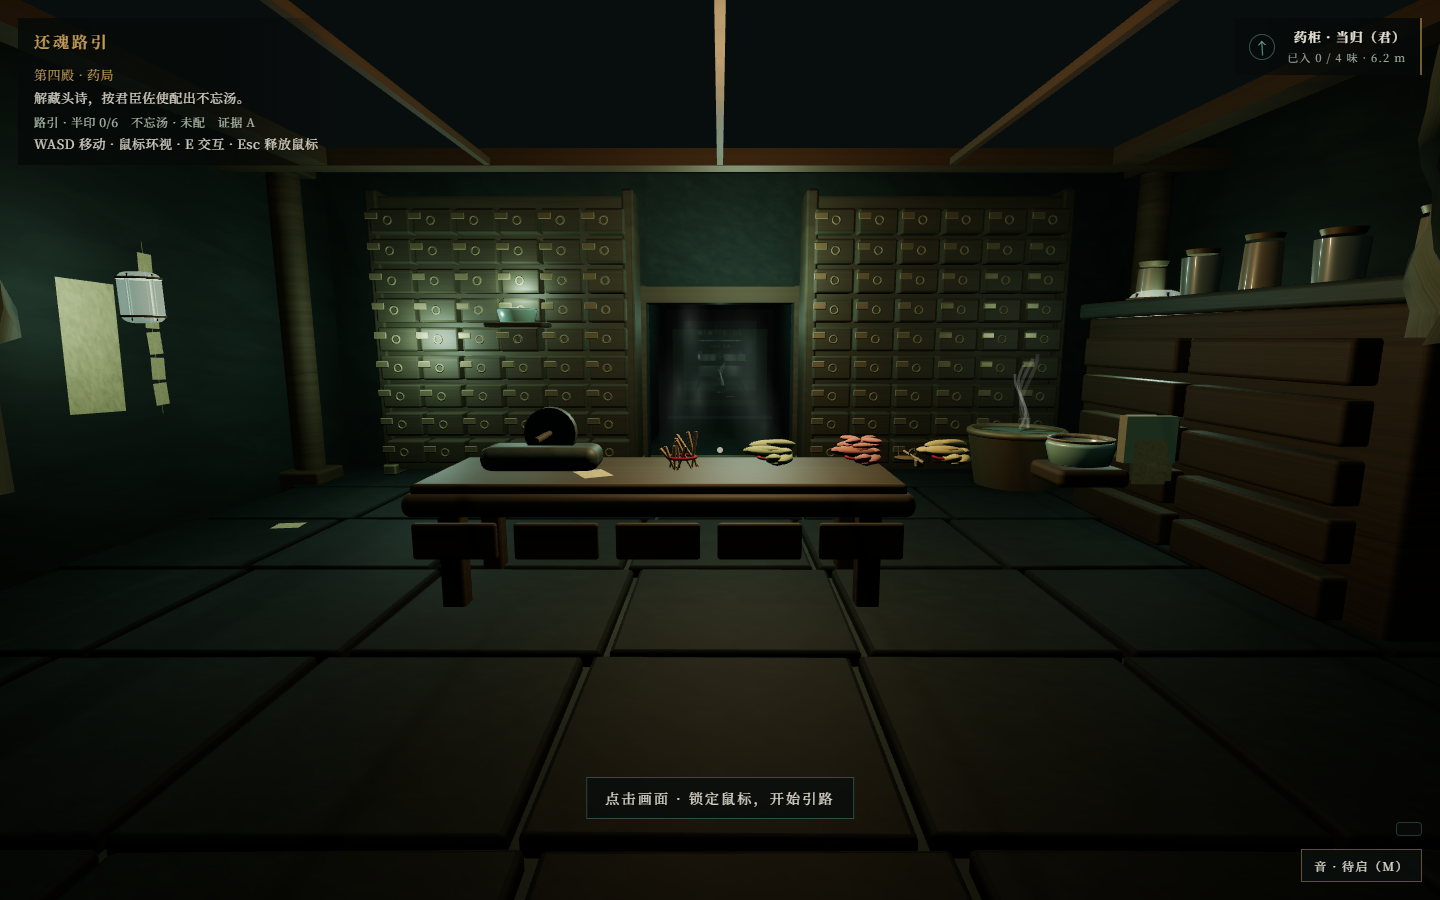
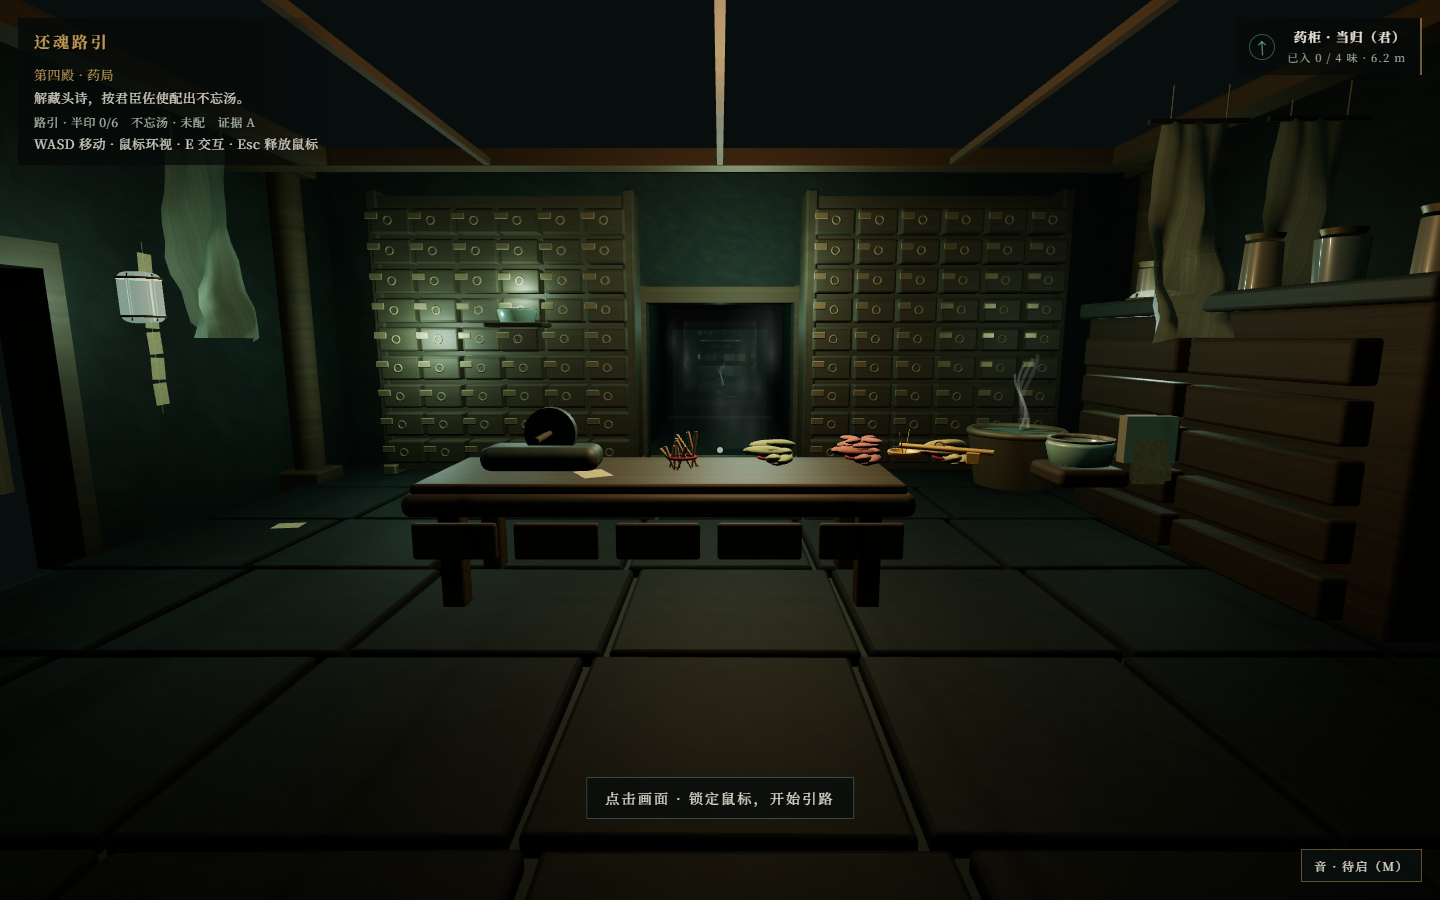
fix: 清除五殿悬浮藻井并补四殿左雾门

diff --git a/game/src/scene.ts b/game/src/scene.ts
@@ -477,7 +477,8 @@ function addLilyField(parent: THREE.Object3D): void {
     const z = onBank
       ? -47.0 - Math.random() * 28
       : (Math.random() < 0.5 ? -48.4 - Math.random() * 3.2 : -72.8 - Math.random() * 3.4)
-    const ground = onBank ? 0.27 : 0.07
+    // 河岸近侧岩石顶面约 0.275m，花茎须插在土里而不是悬在岩石上方。
+    const ground = onBank ? -0.2 : 0.035
     const stemHeight = (0.36 + Math.random() * 0.4) * clump
     const bloomScale = (0.75 + Math.random() * 0.55) * clump
     const yaw = Math.random() * Math.PI * 2
@@ -745,13 +746,24 @@ export class EscapeWorld {
     if (pavers.instanceColor) pavers.instanceColor.needsUpdate = true
     pavers.receiveShadow = true
     group.add(pavers)
-    box(group, [0.35, 5.2, 16], [-7, 2.6, center], DARK_STONE)
+    if (act === 'medicine') {
+      // 左墙开 2.2m 门洞，保留上下过梁；门后由药局补雾幕与门框。
+      box(group, [0.35, 5.2, 5.7], [-7, 2.6, center - 5.15], DARK_STONE)
+      box(group, [0.35, 5.2, 5.7], [-7, 2.6, center + 5.15], DARK_STONE)
+      box(group, [0.35, 1.9, 4.6], [-7, 4.25, center], DARK_STONE)
+    } else box(group, [0.35, 5.2, 16], [-7, 2.6, center], DARK_STONE)
     box(group, [0.35, 5.2, 16], [7, 2.6, center], DARK_STONE)
     for (const end of [-1, 1]) {
       const z = center + end * 8
-      box(group, [5.7, 5.2, 0.35], [-4.15, 2.6, z], DARK_STONE)
-      box(group, [5.7, 5.2, 0.35], [4.15, 2.6, z], DARK_STONE)
-      box(group, [2.6, 1.9, 0.35], [0, 4.25, z], DARK_STONE)
+      const rearPassage = act === 'palace' && end === -1
+      if (!rearPassage) {
+        box(group, [5.7, 5.2, 0.35], [-4.15, 2.6, z], DARK_STONE)
+        box(group, [5.7, 5.2, 0.35], [4.15, 2.6, z], DARK_STONE)
+        box(group, [2.6, 1.9, 0.35], [0, 4.25, z], DARK_STONE)
+      } else if (rearPassage) {
+        // 五殿通往忘川的北墙保持真实门洞；回望机位不被端墙吞掉。
+        box(group, [2.6, 0.55, 0.35], [0, 4.92, z], DARK_STONE)
+      }
       box(group, [0.28, 3.3, 0.6], [-1.45, 1.65, z], WOOD)
       box(group, [0.28, 3.3, 0.6], [1.45, 1.65, z], WOOD)
       box(group, [3.3, 0.28, 0.6], [0, 3.15, z], WOOD)
@@ -777,7 +789,7 @@ export class EscapeWorld {
       box(group, [0.06, 2.3, 2.1], [x, 2.35, center + 0.4], CLOTH)
       for (let index = 0; index < 5; index += 1) box(group, [0.045, 2.35, 0.035], [x + (x < 0 ? 0.035 : -0.035), 2.35, center - 0.45 + index * 0.42], WOOD)
     }
-    addPaper(group, [-6.72, 2.3, center - 2.8], [0.68, 1.4], [0, Math.PI / 2, -0.04], false)
+    if (act !== 'medicine') addPaper(group, [-6.72, 2.3, center - 2.8], [0.68, 1.4], [0, Math.PI / 2, -0.04], false)
     addPaper(group, [6.72, 2.6, center + 2.7], [0.58, 1.2], [0, -Math.PI / 2, 0.06], false)
     this.addInteraction(group, 'exit', act, 'exit', '穿过暗门，前往下一殿', [0, 1.3, center - 7.65], [1.65, 2.5, 0.25], false)
     return group
@@ -790,6 +802,16 @@ export class EscapeWorld {
       if (mesh.isMesh && mesh.material === WOOD) mesh.material = MEDICINE_WOOD
     })
     // 暖色靠材质反照率与既有点光完成，避免额外逐像素灯开销。
+    const sidePortal = new THREE.Group()
+    group.add(sidePortal)
+    for (const z of [-2.35, 2.35]) box(sidePortal, [0.38, 3.3, 0.2], [-6.79, 1.65, z], WOOD)
+    box(sidePortal, [0.38, 0.26, 4.9], [-6.79, 3.2, 0], WOOD)
+    const sideMist = new THREE.Mesh(new THREE.PlaneGeometry(4.6, 3.3), new THREE.MeshBasicMaterial({ map: mistMap, color: 0xd3ded4, transparent: true, opacity: 0.82, depthWrite: false, side: THREE.DoubleSide }))
+    sideMist.position.set(-7.35, 1.68, 0)
+    sideMist.rotation.y = Math.PI / 2
+    sideMist.userData.mist = true
+    group.add(sideMist)
+    label(group, '药库 · 雾廊', [-6.77, 3.6, 0], 1.8, false, Math.PI / 2)
     const cabinet = new THREE.Group()
     cabinet.name = 'medicine-cabinet-fallback'
     group.add(cabinet)
@@ -979,17 +1001,20 @@ export class EscapeWorld {
     // 戥子程序几何：戥杆、秤盘、砣三件；秤盘朝上，杆沿桌面纵深。
     const dengzi = new THREE.Group()
     dengzi.name = 'dengzi-fallback'
-    dengzi.position.set(1.75, 1.27, -1.48)
+    dengzi.position.set(1.85, 1.38, -0.92)
+    dengzi.rotation.y = -0.55
     bench.add(dengzi)
-    const beam = cylinder(dengzi, 0.012, 0.64, [0, 0.07, 0], BRONZE)
-    beam.rotation.x = Math.PI / 2
-    const pan = new THREE.Mesh(new THREE.CylinderGeometry(0.115, 0.09, 0.018, 24), BRONZE)
-    pan.position.set(0, 0.016, -0.22)
-    dengzi.add(pan)
-    for (const x of [-0.075, 0.075]) cylinder(dengzi, 0.003, 0.16, [x, 0.085, -0.22], ROPE)
-    roundedBox(dengzi, [0.07, 0.065, 0.08], [0, 0.044, 0.18], BRONZE, 0.012)
-    const pivot = new THREE.Mesh(new THREE.TorusGeometry(0.026, 0.006, 6, 14), BRONZE)
-    pivot.position.set(0, 0.095, -0.05)
+    const scaleMetal = new THREE.MeshStandardMaterial({ color: 0xc09b5b, metalness: 0.58, roughness: 0.44, emissive: 0x50320d, emissiveIntensity: 0.22 })
+    const beam = cylinder(dengzi, 0.023, 0.76, [0, 0.12, 0], scaleMetal)
+    beam.rotation.z = Math.PI / 2
+    const pan = bowl(dengzi, [-0.34, 0.015, 0], 0.14, 0.065, scaleMetal)
+    for (const z of [-0.085, 0.085]) {
+      const chain = cylinder(dengzi, 0.004, 0.23, [-0.34, 0.145, z], scaleMetal)
+      chain.rotation.x = z < 0 ? -0.48 : 0.48
+    }
+    roundedBox(dengzi, [0.11, 0.1, 0.09], [0.23, 0.065, 0], scaleMetal, 0.012)
+    const pivot = new THREE.Mesh(new THREE.TorusGeometry(0.038, 0.008, 6, 14), scaleMetal)
+    pivot.position.set(-0.05, 0.14, 0)
     dengzi.add(pivot)
 
     light(group, [0.7, 3.2, -6.1], 0x9bc9b7, 8, 0.05)
@@ -1319,13 +1344,7 @@ export class EscapeWorld {
     box(group, [14, 0.22, 0.36], [0, 4.78, -33.2], WOOD)
     for (const x of [-5.4, 5.4]) box(group, [0.36, 0.22, 10], [x, 4.78, -28], WOOD)
     for (let index = -2; index <= 2; index += 2) box(group, [0.08, 0.09, 10.3], [index * 1.55, 4.72, -28], WOOD)
-    const caisson = new THREE.Mesh(new THREE.CylinderGeometry(1.5, 1.7, 0.18, 8), new THREE.MeshStandardMaterial({ color: 0x3a443d, emissive: 0x14231e, emissiveIntensity: 0.9, roughness: 0.85 }))
-    caisson.position.set(0, 4.95, -28)
-    group.add(caisson)
-    const caissonRing = new THREE.Mesh(new THREE.TorusGeometry(1.2, 0.05, 8, 8), BRONZE)
-    caissonRing.rotation.x = Math.PI / 2
-    caissonRing.position.set(0, 4.86, -28)
-    group.add(caissonRing)
+    // 不再放悬空藻井锥体：它遮住案台规则匾额，且没有结构依托。
     const layout = [[8, 1, 6], [3, 5, 7], [4, 9, 2]]
     const stoneMaterials = Array.from({ length: 3 }, () => WET_STONE.clone())
     for (let row = 0; row < 3; row += 1) {
